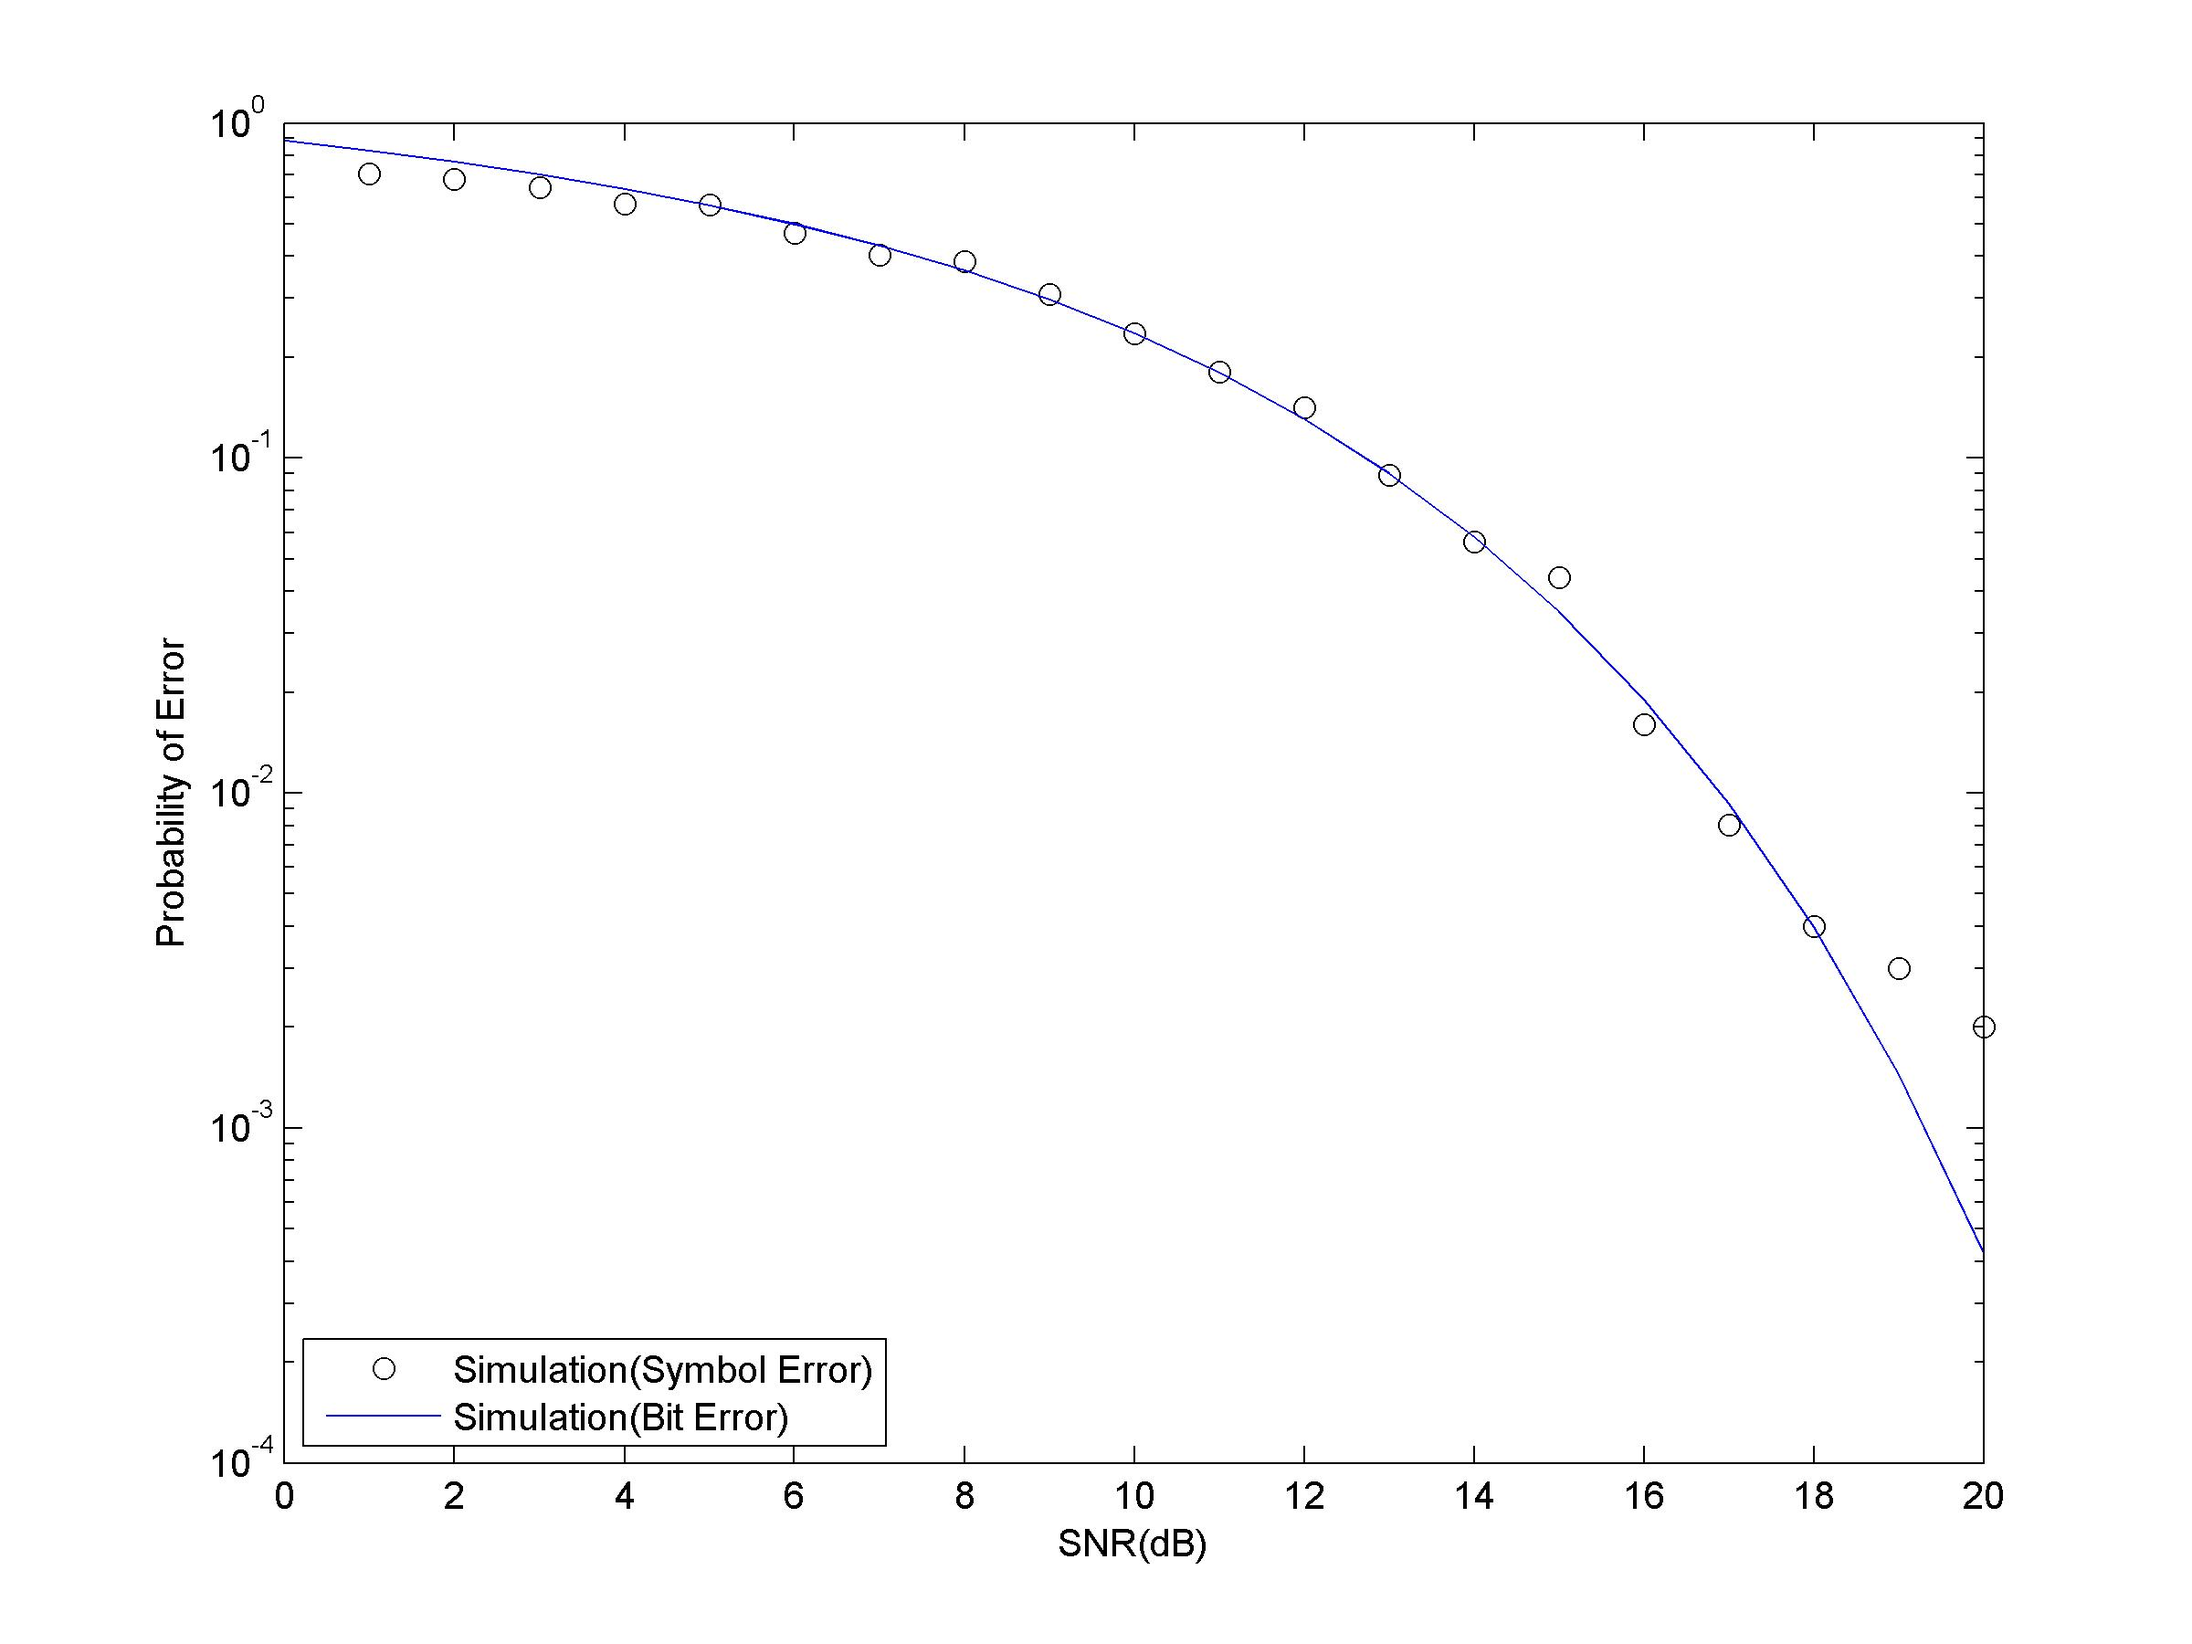
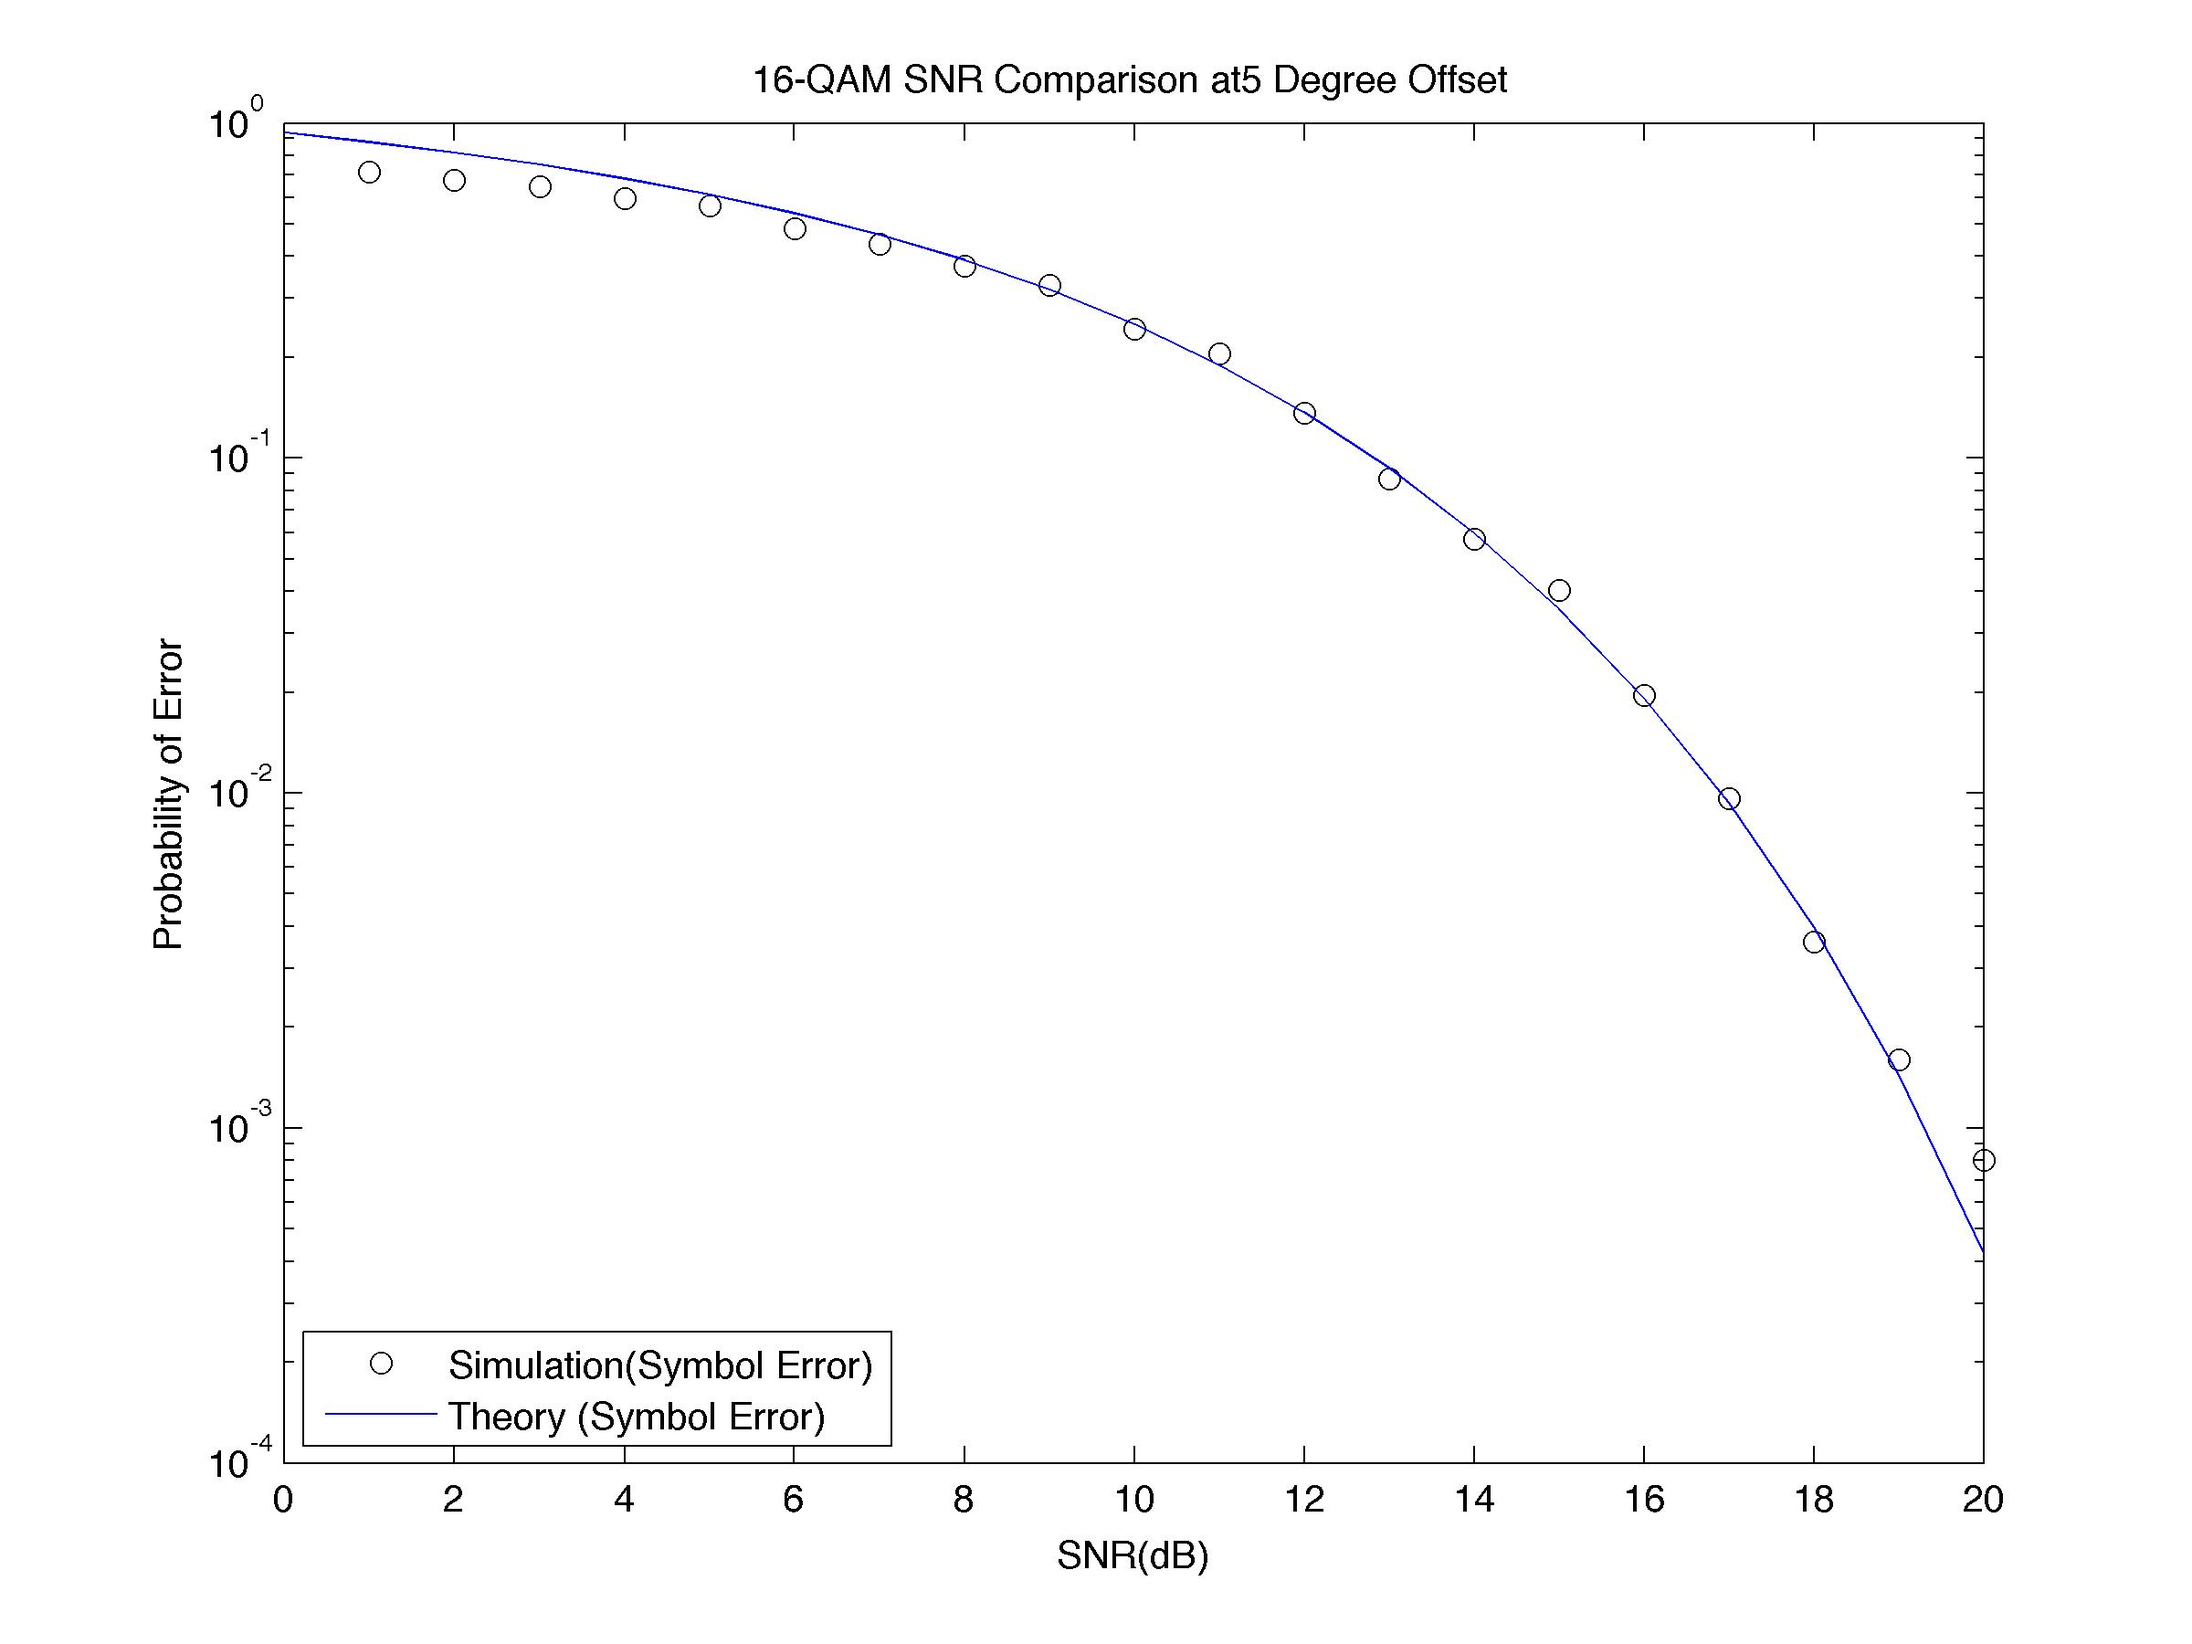
titles

diff --git a/step2/step2_report.tex b/step2/step2_report.tex
@@ -13,7 +13,7 @@
 \definecolor{mauve}{rgb}{0.58,0,0.82}
 
 \DeclareMathOperator*{\argmin}{\arg\!\min}
-
+\newcommand{\rom}[1]{\uppercase\expandafter{\romannumeral#1}}
 
 \lstset{frame=tb,
   language=VHDL,
@@ -84,11 +84,47 @@ The new block was modeled by two different functions.  For Phase offset, the sig
 With the new design worked out, the system was put through a similar set of tests on the four modulation schemes: BPSK, QPSK, 16-QAM, 64-QAM.  Each was subjected to phase offsets from $5\deg$ to $45\deg$ for a range of SNR levels.  Similarly, the modulated signals faced frequency offsets from 10 mHz to 10 Hz.  The system performance was determined by comparing a theoretical error rate to experimental bit error rate.  
 \section{Derivation of Errors}
 \label{sec:errors}
-The following are theoretical formulae for bit error rate under phase error \cite{howald}.
+The following are theoretical formulas for bit error rate under phase error \cite{howald}.  The first is a simple derivation based on a $\phi$ error.  Refer to Figure~\ref{fig:bpskDraw}.
+
+\begin{figure}[H]
+\centering
+\hspace*{-2cm}\includegraphics[width=0.4\textwidth]{bpskDraw.jpg}
+\caption{The rotation of a BPSK constellation is based on the phase error, $\phi$ \label{fig:bpskDraw}}
+\end{figure}
 
 \begin{equation}
-P_b^{\left( QPSK \right)} = \frac{1}{2}\left[Q\left(\sqrt{\frac{4E_b}{N_0}}sin\left(\frac{\pi}{4}+\theta\right)\right) + Q\left(\sqrt{\frac{4E_b}{N_0}}sin\left(\frac{3\pi}{4}+\theta\right)\right)\right]
+P_e^{\left(BPSK\right)} = Q\left(\frac{2cos\left(\phi\right)^{2}E_b}{N_0}\right)
 \end{equation}
+
+Next, the QPSK constellation error can be shown in Figure~\ref{fig:qpskDraw} to be:
+\begin{equation}
+P_e^{\left(QPSK \right)} = Q\left(\sqrt{\frac{2E_b}{N_0}}\sin\left(\frac{\pi}{4}-\phi\right)\right) + Q\left(\sqrt{\frac{2E_b}{N_0}}\sin\left(\frac{\pi}{4}+\phi\right)\right)
+\end{equation}
+
+\begin{figure}[H]
+\centering
+\hspace*{-2cm}\includegraphics[width=0.4\textwidth]{qpskDraw.jpg}
+\caption{The rotation of a QPSK constellation is based on the phase error \label{fig:qpskDraw}}
+\end{figure}
+
+The QAM phase error derivations get to be complicated.  As shown in Figure~\ref{fig:qamDraw}, there are multiple region types.  As such, different symbols have different error probabilities.  Equation~\ref{eq:qam16} shows the average error probability for the entire constellation.  This equation turns out to be superfluous since very little phase error all-together ruins the transmission.  Refer to Section~\ref{sec:qam16_phase}.
+\begin{align}
+P_{e,\rom{1}}^{16-QAM} &= Q\left(\sqrt{\frac{4E_b}{5N_0}}3\sqrt{2}\cos\left(\frac{\pi}{4}+\phi)-2\right)\right) + Q\left(\sqrt{\frac{4E_b}{5N_0}}3\sqrt{2}sin\left(\frac{\pi}{4}+\phi)-2\right)\right) \\
+P_{e,\rom{2}}^{16-QAM} &= Q\left(\sqrt{\frac{4E_b}{5N_0}}\left(\sqrt{10}\cos\left(\frac{\pi}{10}+\phi\right)-2\right)\right)  +  Q\left(\sqrt{\frac{4E_b}{5N_0}}\left(2-\sqrt{10}\sin\left(\frac{\pi}{10}+\phi)\right)\right)\right) \nonumber \\
+&\quad {} + Q\left(\sqrt{\frac{8E_b}{N_0}}\left(\cos\left(\frac{\pi}{10}+\phi\right)\right)\right) \\
+P_{e,\rom{3}}^{16-QAM} &= Q\left(\sqrt{\frac{8E_b}{N_0}}\cos\left(\frac{2\pi}{5}+\phi\right)\right)  +  Q\left(\sqrt{\frac{4E_b}{5N_0}}\left(2-\sqrt{10}\cos\left(\frac{2\pi}{5}+\phi \right)\right)\right) \nonumber \\
+&\quad {} + Q\left(\sqrt{\frac{4E_b}{5N_0}}\left(\sqrt{10}\sin\left(\frac{2\pi}{5}+\phi\right)-2\right)\right)\\
+P_{e,\rom{4}}^{16-QAM} &= Q\left(\sqrt{\frac{8E_b}{5N_0}}\cos\left(\frac{\pi}{4}+\phi\right)\right)  +  Q\left(\sqrt{\frac{8E_b}{5N_0}}\left(\sin\left(\frac{\pi}{4}+\phi \right)\right)\right) \nonumber \\
+&\quad {} + Q\left(\sqrt{\frac{4E_b}{5N_0}}\left(2-\sqrt{2}\sin\left(\frac{\pi}{4}+\phi\right)\right)\right) + Q\left(\sqrt{\frac{4E_b}{5N_0}}\left(2-\sqrt{2}\cos\left(\frac{\pi}{4}+\phi\right)\right)\right) \\
+\label{eq:qam16}
+P_{e}^{16-QAM} &= \frac{1}{4}\left( 4P_{e,\rom{1}}^{\text{16-QAM}} + 4P_{e,\rom{2}}^{\text{16-QAM}} + 4P_{e,\rom{3}}^{\text{16-QAM}} + 4P_{e,\rom{4}}^{\text{16-QAM}} \right)
+\end{align}
+
+\begin{figure}[H]
+\centering
+\hspace*{-2cm}\includegraphics[width=0.4\textwidth]{qamDraw.jpg}
+\caption{The rotation of a 16-QAM constellation is based on the phase error \label{fig:qamDraw}}
+\end{figure}
 
 \section{Step 2 Phase Offset Results}
 \label{sec:results_po}
@@ -163,7 +199,7 @@ As the phase error builds until $\frac{\pi}{4}$, the constellation becomes more 
 
 
 \subsubsection{16-QAM with Phase Offset}
-\label{qam16_phase}
+\label{sec:qam16_phase}
 \begin{figure}[H]
 \centering
 \hspace*{-2cm}\includegraphics[width=1.3\textwidth]{qam16SNRpo1.jpg}
@@ -297,14 +333,18 @@ We expect the frequency offset to cause a blurring around the unit circle.  Howe
 \begin{figure}[H]
 \centering
 \hspace*{-2cm}\includegraphics[width=1.3\textwidth]{qpConstfo4.jpg}
-\caption{The QPSK constellation plots for different levels of SNR at a frequency offset of 10 Hz}
+\caption{The QPSK constellation plots for different levels of SNR at a frequency offset of 10 Hz \label{fig:qpsk_freq}}
 \end{figure}
 
 
 \newpage
 \section{Conclusion}
 \label{sec:conc}
-This phase of the project showed effects of carrier phase and frequency offsets.  This occurs in real systems when coherency is not maintained.  The models showed that bit error rates were not rendered unusable by small errors.  As phase got to $\frac{\pi}{4}$ off, the constellations became the same as for proper $\frac{\pi}{4}$-QPSK [Section~\ref{sec:qam16_phaseConst}].  Similarly, the frequency errors did not ruin the transmissions [\ref{sec:results_fo}].  
+This section of the project showed off the effects of carrier phase and frequency offsets.  This occurs in real systems when coherency is not maintained.  Synchronization between transmitter and receiver oscillator is not perfectly maintained.  The models showed that symbol error rates remained functional for small errors in phase and frequency.  As phase got to $\frac{\pi}{4}$ off, the constellations became the same as for proper $\frac{\pi}{4}$-QPSK [Section~\ref{sec:qam16_phaseConst}].  At this extreme, there was significant misclassification of symbols.  \\
+
+The frequency errors did completely not ruin the transmissions [\ref{sec:results_fo}].  Because the symbol period was so brief, the accumulation of error for small frequency deviations was kept small.  As the frequency difference climbed, the effect became more and more evident.  The tell-tale sign of an offset in frequency is shown in plots such as Figure~\ref{fig:qpsk_freq}.  The blur along the unit circle demonstrates the frequency error.  The errors were catastrophic in the case of a 10 Hz frequency offset.  \\
+
+From this project, the sensitivity of modulation schemes was analyzed.  Impercise phase and frequency can ruin a data system.  In subsequent phases of the project, remedies for these issues will be explored.
 
 \appendix
 \newpage

diff --git a/step2/step2_sim_phase_QAM16.m b/step2/step2_sim_phase_QAM16.m
@@ -6,7 +6,7 @@ clc;
 %Start by setting the initial variables
 overSampleSize = 4;
 rollOffFactor = 0.25;
-N= 4000; %number of bits generated
+N= 10000; %number of bits generated
 Ts = 4/10^6; %Symbol period (10Mbps)
 S=10; %average signal power for 16-QAM
 phase_offsets = [5,10,20,45]; %phase offsets for simulation
@@ -81,16 +81,11 @@ for k=1:length(phase_offsets)
             qfunc(sqrt((4/5)*a)*(2-sqrt(10)*cos(pi/2.5+pi*phase_offsets(k)/180))) + ...
             qfunc(sqrt((4/5)*a)*(sqrt(10)*sin(pi/2.5+pi*phase_offsets(k)/180)-2));
         Pe4(i) =  qfunc((sqrt(2*(4/5)*a)*cos(pi/4+pi*phase_offsets(k)/180))) + ...
-             qfunc((sqrt(2*(4/5)*a)*cos(pi/4+pi*phase_offsets(k)/180))) + ...
+             qfunc((sqrt(2*(4/5)*a)*sin(pi/4+pi*phase_offsets(k)/180))) + ...
              qfunc(sqrt((4/5)*a)*(2-sqrt(2)*cos(pi/4+pi*phase_offsets(k)/180))) + ...
-             qfunc(sqrt((4/5)*a)*(2-sqrt(2)*sin(pi/4+phase_offsets(k))));
+             qfunc(sqrt((4/5)*a)*(2-sqrt(2)*sin(pi/4+pi*phase_offsets(k)/180)));
          
         ser_theo(i) = 0.25*(Pe4(i)+Pe1(i) + Pe2(i) + Pe3(i));
-
-                
-           
-
-
 
        % ber_theo(i) = (1/4)*(3*qfunc(sqrt((4/5)*a))-(9/4)*qfunc(sqrt((4/5)*a))^2);
     end
@@ -106,8 +101,9 @@ for k=1:length(phase_offsets)
    % semilogy(SNR,ber_theo,'g');
     ylabel('Probability of Error');
     xlabel('SNR(dB)');
-    legend('Simulation(Symbol Error)','Simulation(Bit Error)','Theory (Symbol Error)',...
-        'Theory (Bit Error)','Location','SouthWest');
+    title(strcat('16-QAM SNR Comparison at ', num2str(phase_offsets(k)), ' Degree Offset'));
+    legend('Simulation(Symbol Error)','Theory (Symbol Error)',...
+       'Location','SouthWest');
     % save the BER graph
     print(h,'-djpeg','-r300',strcat('qam16SNRpo',num2str(k)));
 end

diff --git a/step2/step2_sim_phase_QAM64.m b/step2/step2_sim_phase_QAM64.m
@@ -10,7 +10,7 @@ B = rollOffFactor*(1/(2*Ts)) + 1/(2*Ts); %srrc pulse bandwidth
 srrc = sqrt_raised_cosine(overSampleSize,rollOffFactor,4,Ts);
 SNR = 0:20;%SNR levels where the system will be simulated
 EbN0 = SNR2EbN0(SNR,6,B);%convert given SNR levels to EbNo
-N=1800;%number of bits generated
+N=18000;%number of bits generated
 phase_offsets = [5,10,20,45]; %phase offsets for simulation
 bits = random_bit_generator(N);%random bit generation
 [quadrature, inphase] = QAM_64_mod(bits,N/6);%mapping to symbols
@@ -143,7 +143,10 @@ for k=1:length(phase_offsets)
    % semilogy(SNR,ber_theo, 'g');
     ylabel('Probability of Error');
     xlabel('SNR(dB)');
-    legend('Simulation(Symbol Error)','Simulation(Bit Error)','Theory(Symbol Error)', 'Theory(Bit Error)','Location','SouthWest');
+    title(['64-QAM SNR Comparison at ',...
+        num2str(phase_offsets(k)), ' Degree Offset']);
+    legend('Simulation(Symbol Error)','Theory(Symbol Error)',...
+        'Location','SouthWest');
     % save the BER graph
     print(h,'-djpeg','-r300',strcat('qam64SNRpo',num2str(k)));
 end

diff --git a/step2/step2_sim_phase_qpsk.m b/step2/step2_sim_phase_qpsk.m
@@ -90,8 +90,8 @@ for y=1:length(phase_offsets)
     semilogy(SNR,ser_theo,'g');
     ylabel('Probability of Error');
     xlabel('Signal To Noise (dB)');
-    title(strcat('SNR Comparison at ',...
-        num2str(phase_offsets(y)), ' Degree Offset'));
+    title(['QPSK SNR Comparison at ',...
+        num2str(phase_offsets(y)), ' Degree Offset']);
     legend('Simulation(Symbol Error)',...
         'Theory (Symbol Error)','Location','SouthWest');
     % save the BER graph
